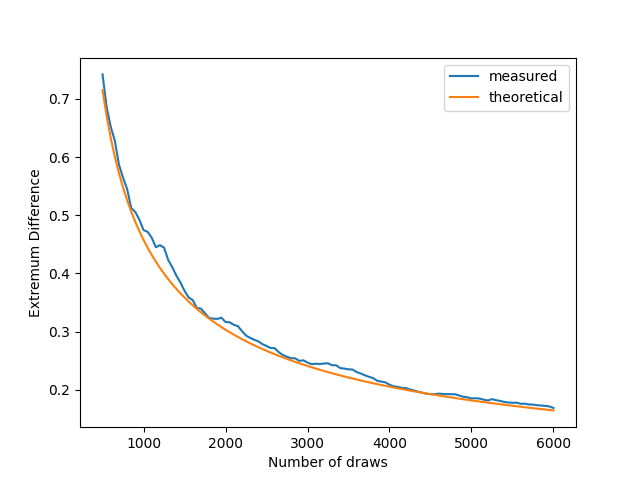
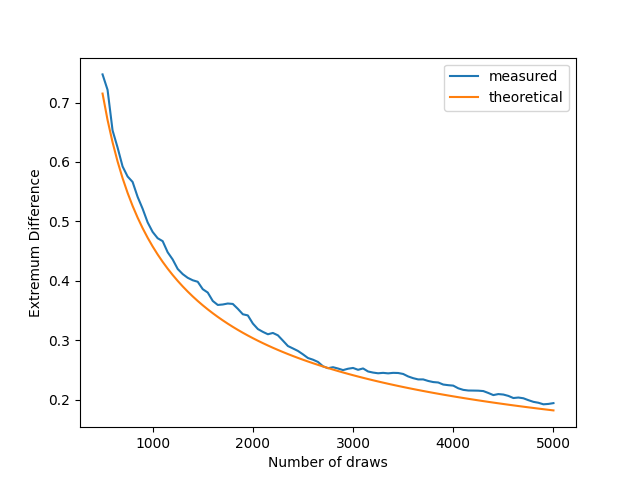
this cant be...

diff --git a/plot_distribution.py b/plot_distribution.py
@@ -3,7 +3,7 @@ import matplotlib.pyplot as plt
 import matplotlib
 matplotlib.use('Agg')
 
-N_DRAWS = 6000
+N_DRAWS = 5000
 
 
 def main():

diff --git a/anim_freqeuencies.py b/anim_freqeuencies.py
@@ -6,7 +6,7 @@ import matplotlib
 matplotlib.use('Agg')
 
 
-N_DRAWS = 6000
+N_DRAWS = 5000
 DRAW_INTERVAL = 50
 HEIGHT = 0.05
 

diff --git a/plot_diff.py b/plot_diff.py
@@ -7,7 +7,7 @@ matplotlib.use('Agg')
 
 
 MIN_DRAWS = 500
-N_DRAWS = 6000
+N_DRAWS = 5000
 DRAW_INTERVAL = 50
 
 N_RUNS = 20

diff --git a/README.md b/README.md
@@ -1,14 +1,14 @@
 # Lotto Experiments
 
-My family and I were discussing German Lotto statistics and we were baffled by the difference of occurences in the drawn numbers: The number 6 (most occuring) occured 624 times and the number 13 (least occuring) occured only 503 times in a total of ~6000 draws ([source](https://lotto.web.de/ratgeber/lottozahlen/meistgezogene-zahlen/)). Fun Fact: 6 and 49 are the most occuring numbers (the Lotto variant is called "6 aus 49" which means as much as "choose 6 from 49") and the least occuring number is 13, a number commonly associated with bad luck in Germany.
+My family and I were discussing German Lotto statistics and we were baffled by the difference of occurences in the drawn numbers: The number 6 (most occuring) occured 624 times and the number 13 (least occuring) occured only 503 times in a total of ~5000 draws ([source](https://lotto.web.de/ratgeber/lottozahlen/meistgezogene-zahlen/) - it says 6000 but the maximum number of draws, assuming every number got drawn 624 times, is 5096). Fun Fact: 6 and 49 are the most occuring numbers (the Lotto variant is called "6 aus 49" which means as much as "choose 6 from 49") and the least occuring number is 13, a number commonly associated with bad luck in Germany.
 
 That means the most occuring number occurs 24% more than the least occuring number. This baffled most of us, so i went on to simulate this process to see if this difference in occurences would also occur in my simulation.
 
 ## Plot Distribution
 
-`plot_distribution.py` simulates 6000 draws and counts the occurences of each number.
+`plot_distribution.py` simulates 5000 draws and counts the occurences of each number.
 
-![Distribution](distributions/6000_draws.png)
+![Distribution](distributions/5000_draws.png)
 
 ## Animate Frequencies
 
